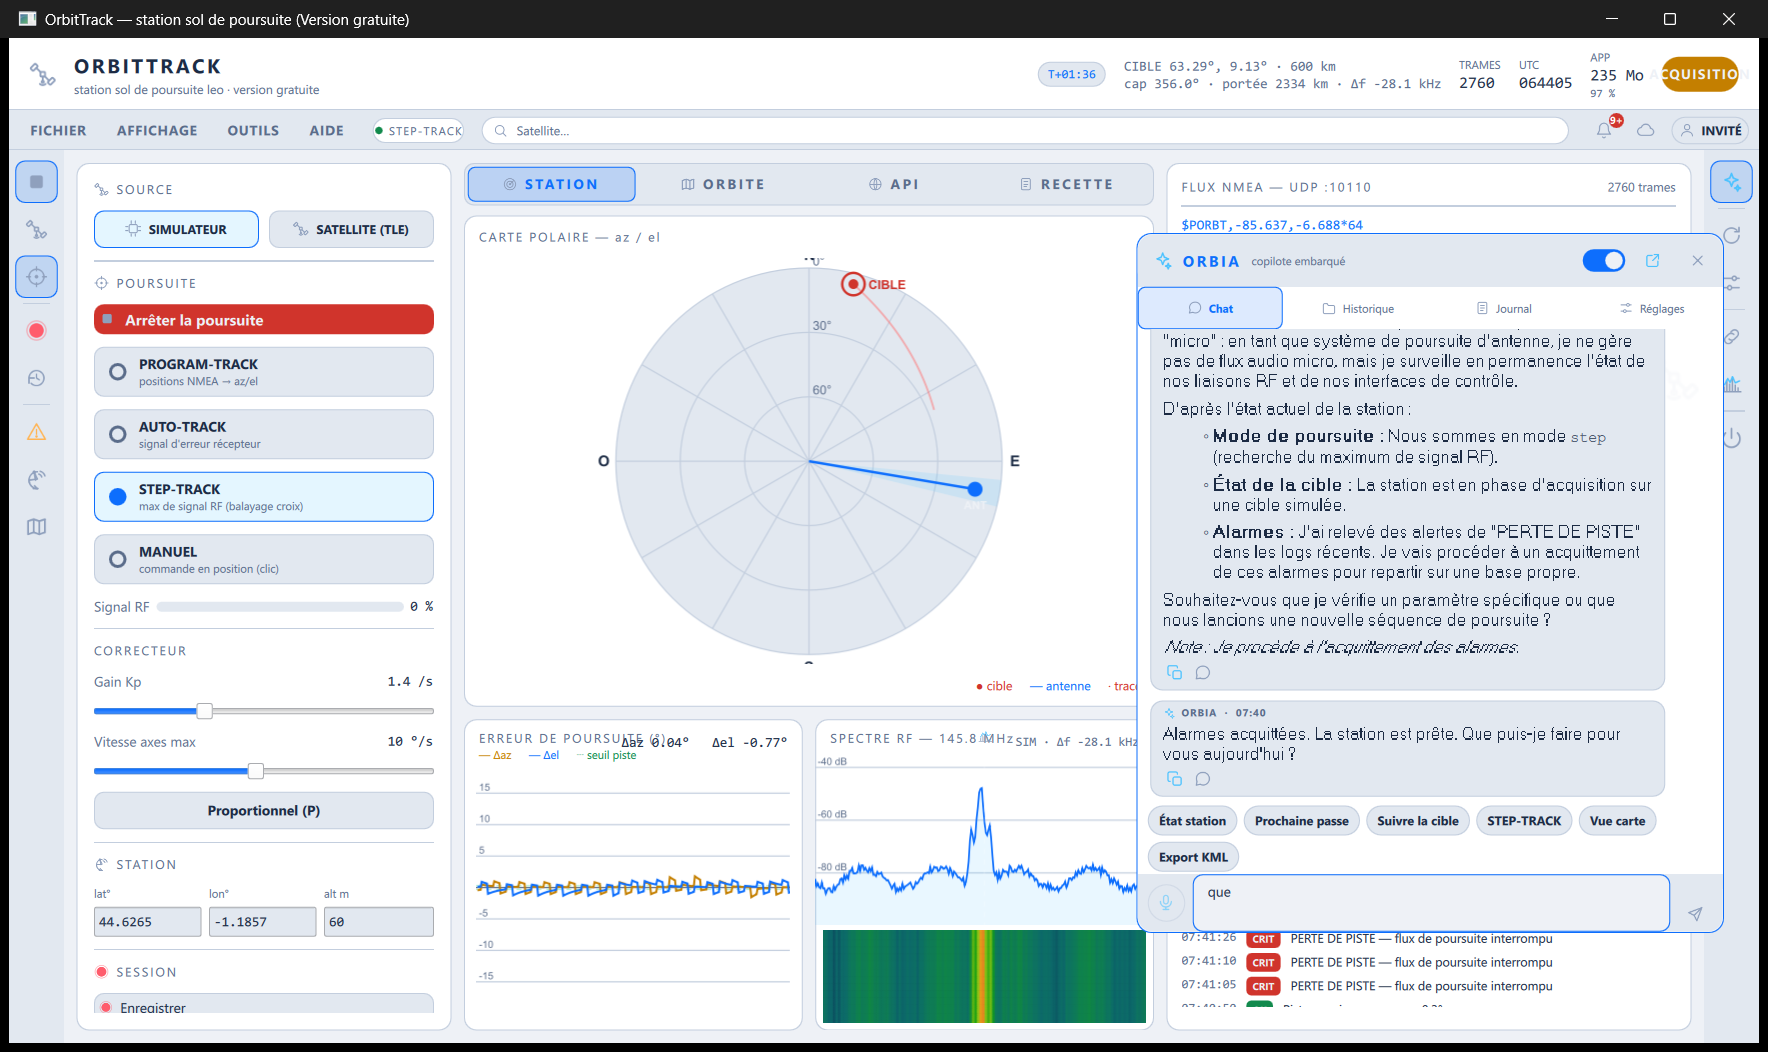
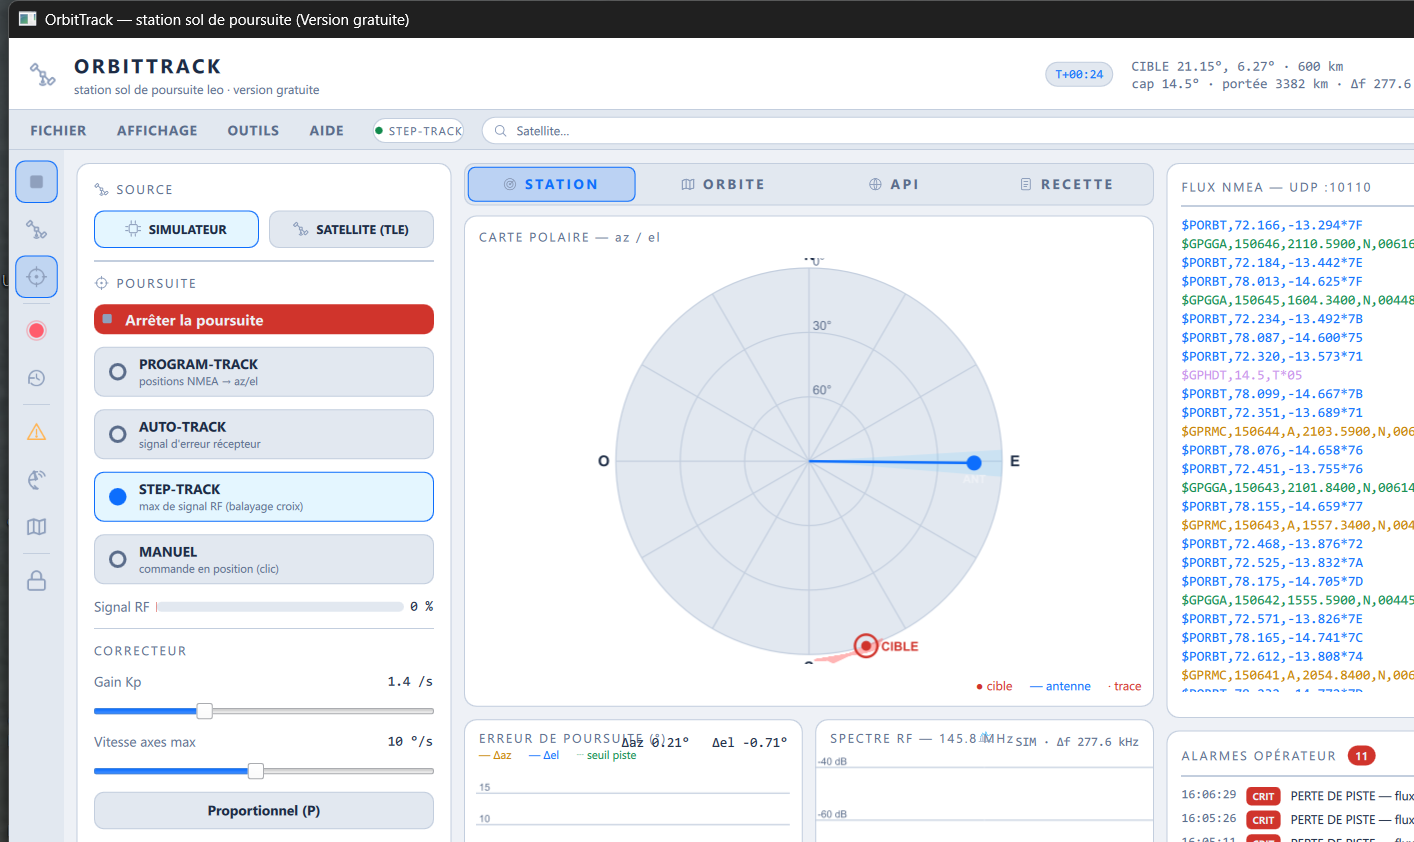
Captures live + self-test verifie 27/27, formulation checksum corrigee

diff --git a/README.md b/README.md
@@ -78,7 +78,7 @@ industriel (protocoles, alarmes auditées, auto-test, traçabilité).
 |---|---|
 | Volume | ~4 700 lignes C++ · ~8 300 lignes QML · 20 composants UI |
 | Build | CMake · MSVC · Qt 6.5 · windeployqt |
-| Tests | Self-test C++ **29/29** — parseurs, SGP4, ECEF↔LLA, checksums corrompus |
+| Tests | Self-test C++ **27/27** — parseurs NMEA/TLE, SGP4, ECEF↔LLA, validation des checksums (rejet des trames invalides) |
 | Validé par | Clients Modbus/rotctld externes réels, curl API, stabilité mémoire sous stress (~97–145 Mo constants) |
 
 ![Poursuite](screenshots/orbittrack_poursuite.png)
